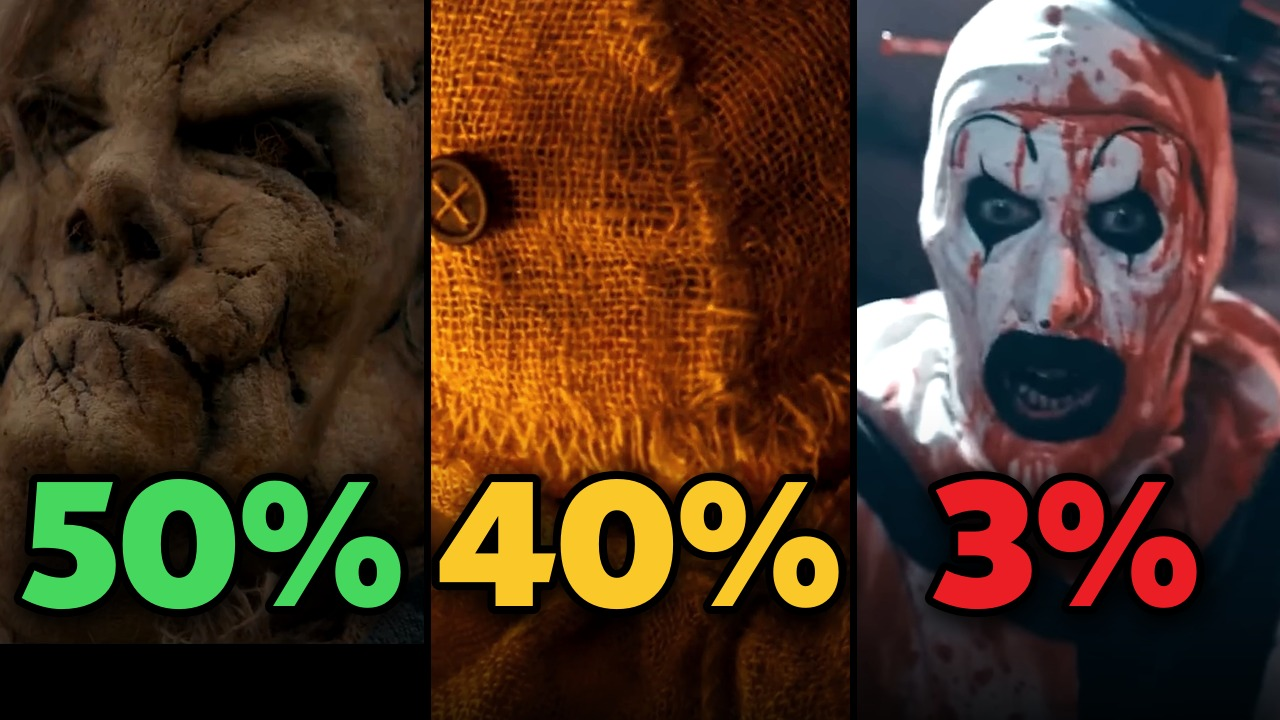
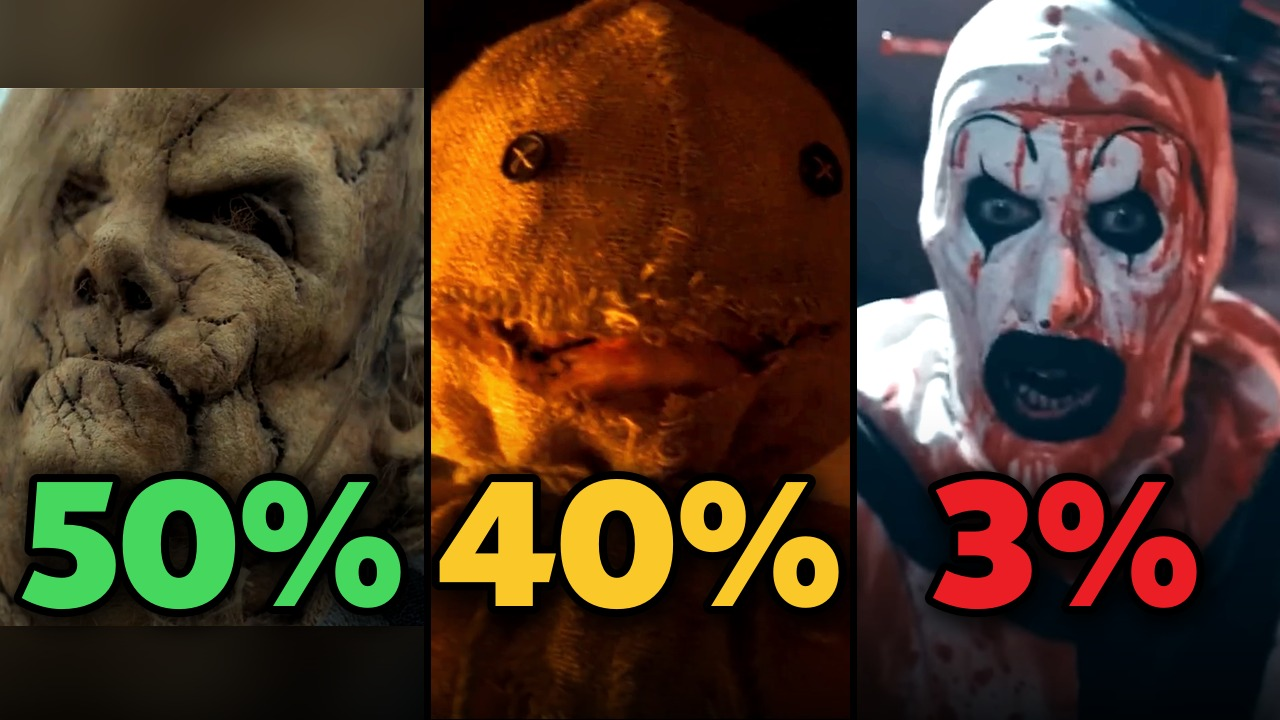
Halloween thumbs v3: whole faces (Sweet16 mask, frontal T2 Art, Sam with both eyes, Harold with blur-filled letterbox), brighter The Other

diff --git a/concepts/i444/ep_halloween/thumbs.py b/concepts/i444/ep_halloween/thumbs.py
@@ -4,7 +4,7 @@
 # usage: python thumbs.py [clips_dir] [out_dir]
 import os, sys, io, subprocess
 import numpy as np
-from PIL import Image, ImageDraw, ImageEnhance
+from PIL import Image, ImageDraw, ImageEnhance, ImageFilter
 HERE = os.path.dirname(os.path.abspath(__file__))
 sys.path.insert(0, os.path.join(HERE, '..', 'ep01'))
 from gfx import f, shadow_text
@@ -17,18 +17,25 @@ def frame(clip, t):
                                    '-f', 'image2pipe', '-vcodec', 'png', '-'])
     im = Image.open(io.BytesIO(png)).convert('RGB')
     return im if im.size == (1920, 1080) else im.resize((1920, 1080), Image.LANCZOS)   # 1440p sources -> 1920x1080 coordinates
-def grade(im, bright=1.0, contrast=1.12, sat=0.9):
+def grade(im, bright=1.0, contrast=1.18, sat=0.95):
     im = ImageEnhance.Brightness(im).enhance(bright); im = ImageEnhance.Contrast(im).enhance(contrast)
     return ImageEnhance.Color(im).enhance(sat)
 def panel(sp, pw):
     """crop a pw x H window around the face (cx, cy in 1920x1080), face height = face_px in the output"""
     im = grade(frame(sp['clip'], sp['t']), sp.get('bright', 1.0))
     s = sp['face_px'] / sp['face_h']                      # output px per source px
-    s = max(s, H / 1080, pw / 1920)                      # never smaller than the panel (no black bars)
+    if sp.get('blurfill'):                                # letterboxed source zoomed out: fill the panel with a blurred, enlarged copy behind it
+        t0, t1 = sp['blurfill']; bg = im.crop((0, t0, 1920, t1)).resize((int(1920 * H / (t1 - t0)), H), Image.LANCZOS).filter(ImageFilter.GaussianBlur(30))
+        bg = ImageEnhance.Brightness(bg).enhance(0.6)
+        bx = int(min(max(sp['cx'] * H / (t1 - t0) - pw / 2, 0), bg.width - pw)); bg = bg.crop((bx, 0, bx + pw, H))
+    else: s = max(s, H / 1080, pw / 1920)                # never smaller than the panel (no black bars)
     big = im.resize((int(1920 * s), int(1080 * s)), Image.LANCZOS)
     cx, cy = sp['cx'] * s, sp['cy'] * s
     x0 = int(min(max(cx - pw / 2, 0), big.width - pw)); y0 = int(min(max(cy - sp.get('eye_y', 250), 0), big.height - H))
     p = big.crop((x0, y0, x0 + pw, y0 + H)).convert('RGBA')
+    if sp.get('blurfill'):
+        top = int(sp['blurfill'][0] * s) - y0; bot = int(sp['blurfill'][1] * s) - y0
+        canvas = bg.convert('RGBA'); canvas.alpha_composite(p.crop((0, max(top, 0), pw, min(bot, H))), (0, max(top, 0))); p = canvas
     v = np.linspace(0, 1, H)[:, None]; a = (np.clip((v - 0.55) / 0.45, 0, 1) ** 1.5 * 200).astype(np.uint8)   # dark bottom for the %
     p.alpha_composite(Image.merge('RGBA', [Image.new('L', (pw, H), 0)] * 3 + [Image.fromarray(np.repeat(a, pw, 1), 'L')]))
     return p
@@ -41,11 +48,11 @@ def three(specs, name):
     im.convert('RGB').save(os.path.join(OUT, name), quality=92); print(name)
 # owner 10/31 13:48 (standing rule): left GREEN %, middle YELLOW %, right RED %; the three variants must look very different;
 # zoomed in, the face fills most of the panel with the eyes in the upper third, % below the face. Coordinates = 1920x1080 frame.
-def P(clip, t, cx, cy, face_h, pct, col, bright=1.15, face_px=430, eye_y=300): return dict(clip=clip, t=t, cx=cx, cy=cy, face_h=face_h, pct=pct, col=col, bright=bright, face_px=face_px, eye_y=eye_y)
+def P(clip, t, cx, cy, face_h, pct, col, bright=1.15, face_px=430, eye_y=300, blurfill=None): return dict(clip=clip, t=t, cx=cx, cy=cy, face_h=face_h, pct=pct, col=col, bright=bright, face_px=face_px, eye_y=eye_y, blurfill=blurfill)
 os.makedirs(OUT, exist_ok=True)
-three([P('tk_trailer', 101.6, 840, 360, 260, '99%', GREEN, 1.6, eye_y=230), P('h78_best_hd', 402.5, 1140, 360, 230, '30%', YEL, 1.8, face_px=340, eye_y=260),
-       P('t2_cafe_hd', 260.6, 1150, 640, 420, '3%', RED, 1.1, face_px=380, eye_y=300)], 'halloween_thumb_a.jpg')
-three([P('ss_nc_harold', 11.8, 1320, 470, 640, '50%', GREEN, 1.1, face_px=520, eye_y=260), P('trt_wbuk_sam_hd', 144.5, 600, 400, 700, '40%', YEL, 1.5, face_px=480, eye_y=260),
+three([P('tk_trailer', 101.6, 840, 330, 330, '99%', GREEN, 1.6, face_px=340, eye_y=240), P('h78_best_hd', 402.5, 1140, 360, 230, '30%', YEL, 1.8, face_px=340, eye_y=260),
+       P('t2_costume_hd', 85.0, 950, 270, 280, '3%', RED, 1.25, face_px=380, eye_y=230)], 'halloween_thumb_a.jpg')
+three([P('ss_eone_trailer', 3.5, 1350, 500, 700, '50%', GREEN, 1.15, face_px=470, eye_y=250, blurfill=(140, 940)), P('trt_wbuk_sam_hd', 100, 740, 340, 560, '40%', YEL, 1.6, face_px=380, eye_y=210),
        P('t2_sienna_hd', 186.5, 640, 600, 470, '3%', RED, 1.25)], 'halloween_thumb_b.jpg')
-three([P('h3_skull_hd', 120, 1080, 460, 430, '60%', GREEN, 1.5), P('hf_maze_hd', 28.5, 680, 480, 440, '45%', YEL, 1.6),
+three([P('h3_skull_hd', 120, 1080, 460, 430, '60%', GREEN, 1.5), P('hf_maze_hd', 28.0, 690, 400, 300, '45%', YEL, 2.6, face_px=400, eye_y=250),
        P('t1_meet_hd', 223.0, 600, 470, 560, '6%', RED, 1.1)], 'halloween_thumb_c.jpg')
